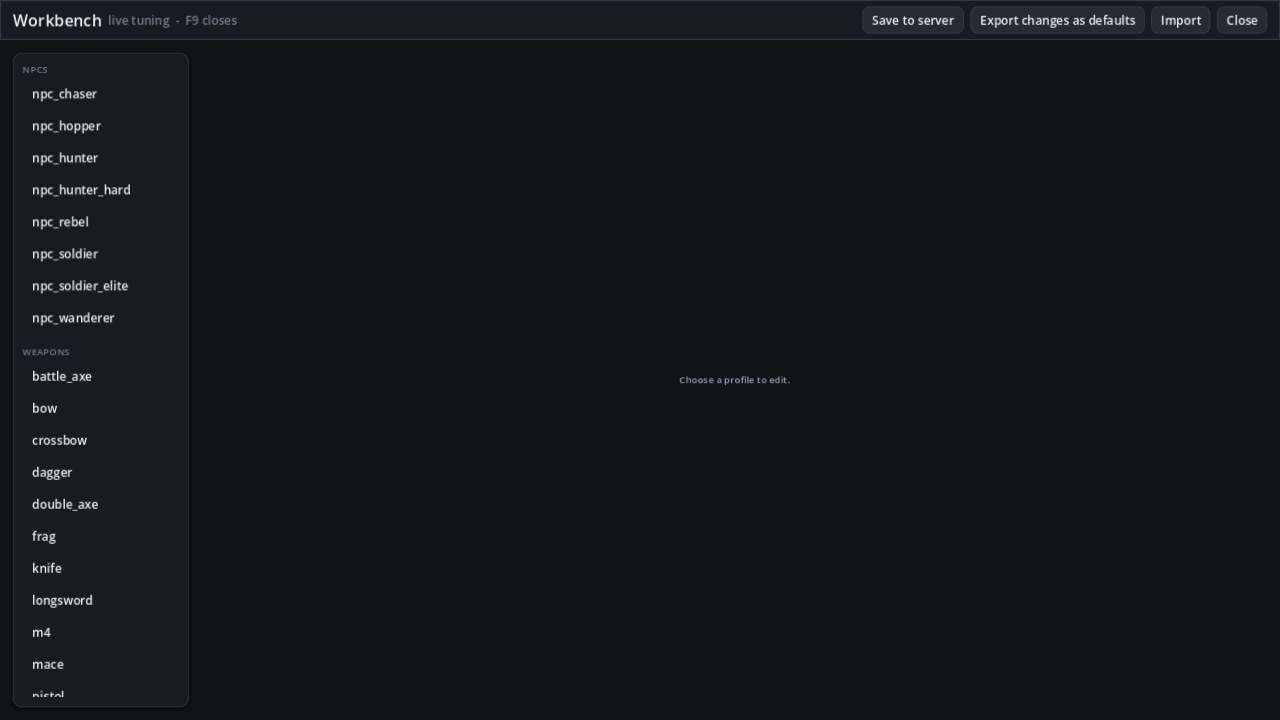
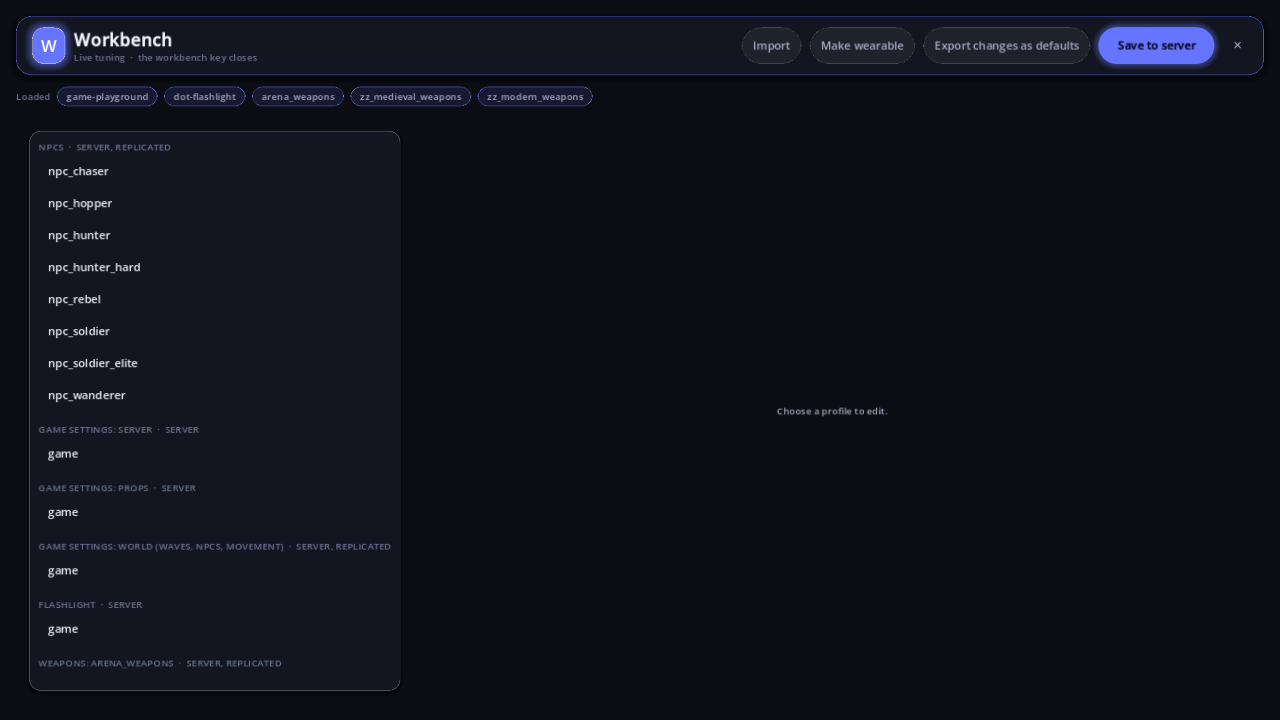
Workbench: list only what is loaded, a heading per weapon pack, side labels
PlaygroundWorkbenchSets builds the panel for the offline client, the remote
panel and the server alike, scoped with dot-workbench's DotWorkbenchScope:
- the arena mode's settings move to their own `config_arena` file and show
  only while pg_arena is on; waves, NPC scales and movement are `config_world`
- each weapon pack with profiles gets "Weapons: <pack>" (a DotWorkbenchSetView
  over the group), including packs scanned after the panel started
- grenade, ragdoll and map-toy cvar sets are listed once their addons bound them
- every heading says server / server, replicated; owners show as Loaded pills
- .gitignore bootstrap-links each pack's cfg/addons/<pack> (the weapon profiles)

headless_workbench_scope: Playground-only has no arena section, both on lists
both, packs are listed and editable through their heading.

diff --git a/docs/simulation.md b/docs/simulation.md
@@ -65,7 +65,7 @@ A generated or document map needs configuring before anybody spawns: `_on_map_ch
 | `coyote_time` | 0.1 | **0** | free speed on a timed map; a run set with it is not comparable |
 | `jump_buffer_time` | 0.1 | **0** | the same |
 
-`PlaygroundMap.jump_reach(rise)` and `climb_limit()` ask the same tunables (`DotFpsTunables.jump_reach` / `climb_limit`, apex × `CLIMB_MARGIN` 0.9 = 1.035 m) so maps with no player in the tree ask the movement itself. `MOVE_SPEED`, `JUMP_HEIGHT` and `MOVE_GRAVITY` stay on `PlaygroundMap` for laying out geometry and are asserted against the tunables the server applies. `PlaygroundConfig` (Movement group, `config_arena`) carries `move_speed`, `jump_height` and `move_gravity` at the same defaults; `Playground.apply_movement()` puts them on every player and the toys, and the server bridge sends them in HELLO (appended) and in a `MOVEMENT` event on change, so a client predicts with the server's numbers (`headless_net`: `_test_movement_over_the_wire`). The map constants and `jump_reach` stay the defaults: a changed value does not re-size a built-in map. Never measure a reach off `DotFpsTunables.new()`: the addon's defaults are not this server's.
+`PlaygroundMap.jump_reach(rise)` and `climb_limit()` ask the same tunables (`DotFpsTunables.jump_reach` / `climb_limit`, apex × `CLIMB_MARGIN` 0.9 = 1.035 m) so maps with no player in the tree ask the movement itself. `MOVE_SPEED`, `JUMP_HEIGHT` and `MOVE_GRAVITY` stay on `PlaygroundMap` for laying out geometry and are asserted against the tunables the server applies. `PlaygroundConfig` (Movement group, `config_world`) carries `move_speed`, `jump_height` and `move_gravity` at the same defaults; `Playground.apply_movement()` puts them on every player and the toys, and the server bridge sends them in HELLO (appended) and in a `MOVEMENT` event on change, so a client predicts with the server's numbers (`headless_net`: `_test_movement_over_the_wire`). The map constants and `jump_reach` stay the defaults: a changed value does not re-size a built-in map. Never measure a reach off `DotFpsTunables.new()`: the addon's defaults are not this server's.
 
 ## The tick rate comes from `server.cfg`, and every link is silent
 
